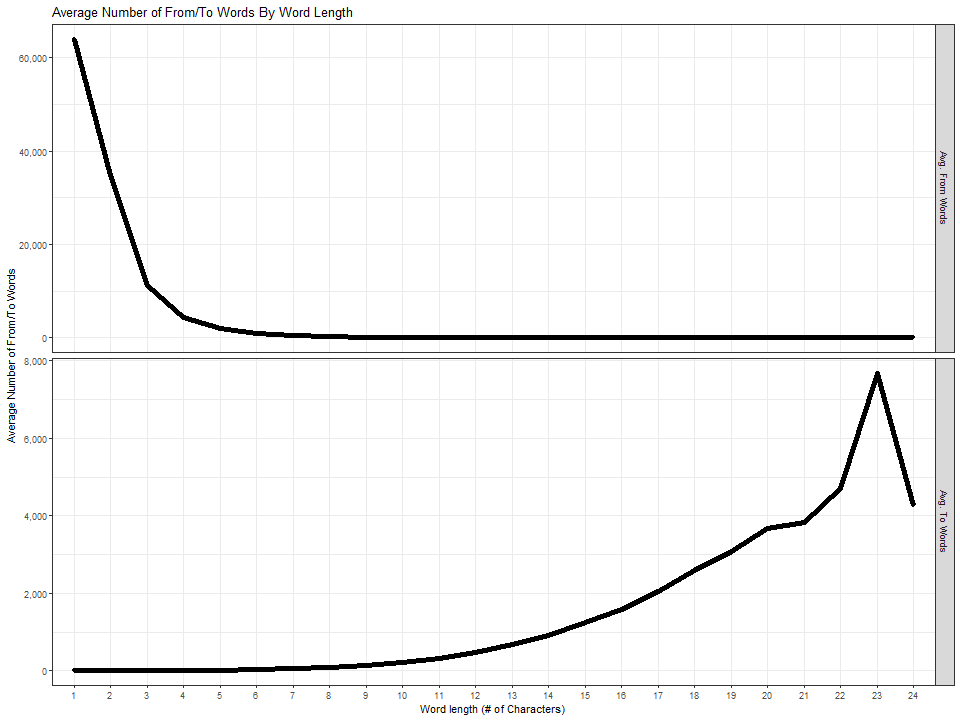
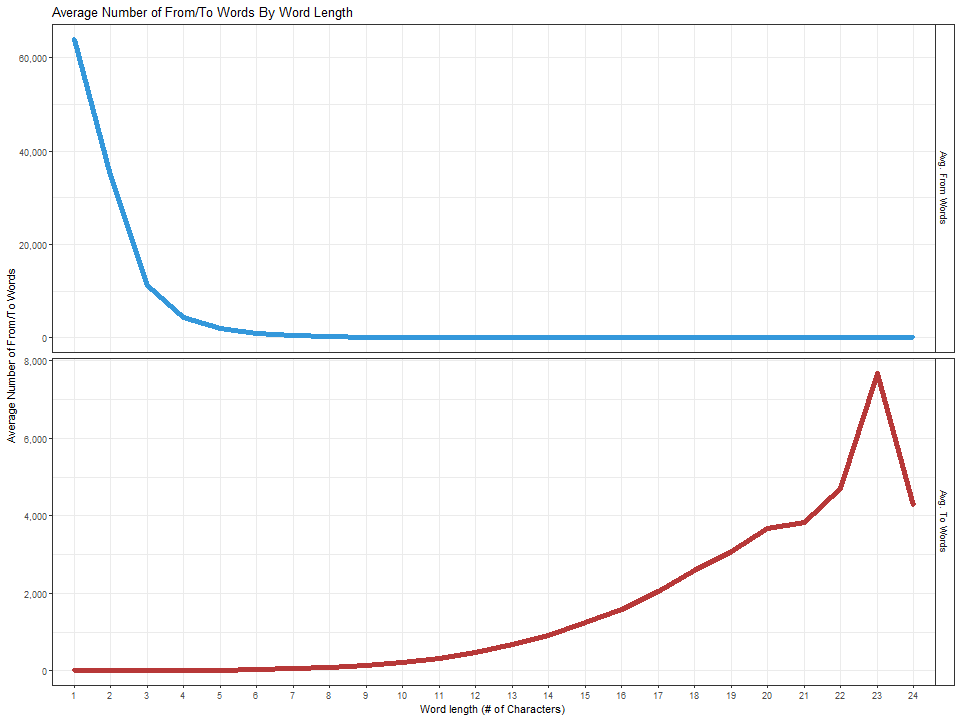
interim checkin 2025_03_27_13_41_51

diff --git a/media/finding_anagrams/wordlist.html b/media/finding_anagrams/wordlist.html
@@ -37,7 +37,7 @@
             display: none;
             padding: 10px;
             background-color: #f4f4f4;
-            border-left: 4px solid #3498db;
+            border-left: 4px solid Grey;
             margin-top: 5px;
             border-radius: 5px;
         }
@@ -107,8 +107,7 @@
                             const wordCount = groupedWords[length].length;
                             // let formattedCount = group.count.toLocaleString(); // Format number with commas
                             let formattedCount = wordCount.toLocaleString();
-                            let barColor = direction === "from" ? "blue" : "red"; // Set color based on direction
-
+                            
                             let headerColor = direction === "from" ? "#3498db" : "#b73838"; // Blue for "from", Red for "to"
 
                             content += `

diff --git a/README.md b/README.md
@@ -1,5 +1,5 @@
 # Finding Anagrams: v2.0
-# March 26, 2025
+## March 27, 2025
 Find and store parent/child word relationships using Python, NumPy, Pandas, and SQLite
 
 # Introduction
@@ -47,7 +47,6 @@ Each matrix extraction option is described in greater detail below. Where applic
 
 These colors were created by [Professor Cynthia Brewer](https://www.geog.psu.edu/directory/cynthia-brewer) and originate from the [Dark2 color theme](https://colorbrewer2.org/#type=qualitative&scheme=Dark2&n=3).  
 
-
 ## Matrix Extraction Option 1 - No subdivision
 By subtracting each row (a focal word) of the `char_matrix` from every other row of the `char_matrix` and finding non-negative values for each operation, the parent words for a focal word are identified. This is the simplest option to implement and the slowest because each word is compared against $215,842$ other words. This is effectively performing $~216K * ~216K$ comparisons. Accordingly, this option takes approximately $90$ minutes to complete. While the `char_matrix` creates a standard format for each word, there are latent structures in our list of words that we can leverage. To that end, [part_01_structure_data.ipynb](/code/part_01_structure_data.ipynb) uncovers these latent structures: the number of characters in each word and the frequency of each character in our list of words. Matrix extraction options `2` through `6` leverage these latent structures by splitting the `char_matrix` into smaller $[M, 26]$ matrices. 
 
@@ -88,7 +87,7 @@ Repeating this process of selecting the three least common letters for each of t
 
 The letter selector groups range in size from a single word to over $145K$ words. We can get a better sense of the distribution of the sizes of the letter selector groups by examining the plot comparing the number of letter selector groups by the size of the letter selector group:  
 ![Letter selector difference](/graphics/meo_5_letter_selector_group_size.png)
-For ease of interpretation, the x-axis is log-transformed. Most letter groups are small: $25$ -percent of the $2,387$ distinct letter groups feature $340$ words or fewer and $50$ -percent of the $2,387$ letter groups feature $1,665$ words or fewer. The average group size is a little over $7.4K$ words. Grouping by least common letters is an efficient way to sub-divide the initial `char_matrix`. In fact, it is so efficient that matrix extraction option `5` executes in under four minutes. This is over $10$ times faster when compared to Option `3` ($31$ minutes) and over $5$ times faster than option `4` ($15$ minutes). And this is because of the reduction in the search spaces of candidate words. When comparing option `5` with option `3`, there is a [$92$ -percent](/graphics/meo_5_letter_selector_lookup_diff.png) reduction in the size of the search spaces.
+For ease of interpretation, the x-axis is log-transformed. Most letter groups are small: $25$ -percent of the $2,387$ distinct letter groups feature $340$ words or fewer and $50$ -percent of the $2,387$ letter groups feature $1,665$ words or fewer. The average group size is a little over $7.4K$ words. Grouping by least common letters is an efficient way to sub-divide the initial `char_matrix`. In fact, it is so efficient that matrix extraction option `5` executes in under four minutes. This is over $10$ times faster when compared to Option `3` ($31$ minutes) and over $5$ times faster than option `4` ($15$ minutes). And this is because of the reduction in the search spaces of candidate words: when comparing option `5` with option `3`, there is a [92-percent](/graphics/meo_5_letter_selector_lookup_diff.png) reduction in the size of the search spaces.
   
 ## Matrix Extraction Option 6: Matrices are sub-divided by groups of least common letters and number of characters
 Of the five previous matrix extraction options, option `5` is currently in first place. Can we improve on option `5`? The answer is a resounding *"yes, but..."* More on that in a bit, but first the method behind option `6`: a combination of word length and groups of least common letters. Option `6` performs additional subdivision by finding the set of words common between words that are at least $N$ characters in length *and* the groups of least common letters. This generates $16,101$ sub-matrices. Again, focusing on the word `achiever`, we can intersect the set of $489$ words that feature the three least common letters of `['v', 'h', 'c']` with the set of candidate words that are at least $8$ characters in length - $170,056$ words - to produce a list of $449$ candidate words. This process is repeated for all words. Just like for option `5`, we can get a sense of the distribution of the search space by examining the sizes of the letter-selector-number-of-characters groups.   
@@ -133,46 +132,44 @@ As the sizes of sub-matrices decrease, the number of sub-matrices increase. This
 
 As a final comment, up until this point, I have not have mentioned any timing related to generating the sub-matrices. For options `2` through `4`, it takes about $2$ seconds to generate the sub-matrices. Generating the sub-matrices for option `5` takes about $10$ seconds and it takes about a minute to generate the sub-matrices for option `6`. In other words, for option `5`, an extra $8$ seconds of pre-processing results in a time savings of $90$ minutes when compared with matrix extraction option `1`.
 
-# AN ETL PIPELINE
+# An ETL Pipeline
 This section describes each script in the ETL pipeline and the various scripts used to analyze different processing times. Parts 01, 02, and 03 form the ETL pipeline while other parts feature various components for code reuse and analyses.
 
-## SETUP
+## Setup
 The scripts in this portion define constants and functions used throughout subsequent processes.
 * [`_run_constants.py`](/code/_run_constants.py) - Input and output file names and paths. All subsequent scripts reference the paths defined in this file. Paths and names only need to be set once, in this file. 
 
-## UTILITIES
+## Utilities
 * [`part_00_file_db_utils.py`](/code/part_00_file_db_utils.py) - Code reuse for parts 01 through 07. These are mostly I/O and utility functions.
 * [`part_00_process_functions.py`](/code/part_00_process_functions.py) - Code reuse for parts 01 through 07. These functions perform the data processing and are called in subsequent parts. The reason for this structure is for code reuse, efficient optimization and debugging, and generally writing less code. Effectively, we can define the function once and import it.
 
-## EXTRACT
+## Extract
 * [`part_01_structure_data.ipynb`](/code/part_01_structure_data.ipynb) and [`part_01_structure_data.py`](/code/part_01_structure_data.py) - 
 Load a list of words, perform several calculations and data creation steps, and store the results. This step creates the objects that facilitate the different extraction techniques. In these notebooks, the word groups are determined. The input list of [words](/data/words.txt) features approximately $234K$ unique words. Of these $234K$ words, approximately $201K$ do not belong to a word group while approximately $14K$ words do belong a word group. Most words in the word groups belong to groups of size $2$. The words `abactor` and `acrobat` are anagrams of each other. There are two words groups of size 10: 
 
-## TRANSFORM
+## Transform
 * `part_02_demonstrate_extraction_timing_techniques.ipynb` and `part_02_demonstrate_extraction_timing_techniques.py` - The scripts in this section demonstrate the techniques - and crucial differences - in the different matrix extraction techniques in subsequent scripts.
 
-## LOAD
+## Load
 * `part_03_generate_and_store_anagrams.ipynb` and 
 `part_03_generate_and_store_anagrams.py*` - This script and notebook find the parent words for all words in the list of focal words using one of the user specified extraction options. The data can optionally be written to a SQLite DB.
 
 Each of the six techniques in part_03 will produce the same data - the discover of $\approx73M$ parent-child word pairs using different data structuring and access techniques. 
 
-## ETL
+## Complete ETL
 * `part_04_run_parts_01_02_and_03.ipynb` and `part_04_run_parts_01_02_and_03.py` can be used to run parts 01, 02, and 03 from one notebook / script. This is helpful in showcasing the overall time it takes to run one matrix extraction technique.
 
-## QUERY
-
+## Query
 * `part_05_query_anagram_database.ipynb` - query the anagram database. Show how to crosswalk from `word_group_id` to `word`.
 * `part_06_add_database_indices.ipynb` - adds indices to tables in the anagram database. This showcases how database indices can dramatically speed up data retrieval times: from minutes to query for a single word to sub-second access. This notebook only needs to be run after the `anagram_groups` table is (re)created. 
 
-## ANALYSIS
+## Analysis
 * `part_07_build_a_graph.ipynb` - build a graph of the parent/child word relationships after for the word `terminator`. 
 
-# VISUALIZATION
+# Visualization
 Both python (part 08) and R (part 09) are used to plot aspects of the search space and process times by matrix extraction technique. Parts 10 and 11 prepare data for use in a webpage. 
 
-## search spaces and processing times
-
+## Search Spaces and Processing Times
 * `part_08_plot_counts_of_search_spaces.ipynb` - use [`matplotlib`](https://matplotlib.org/) and [`seaborn`](https://seaborn.pydata.org/) to plot counts of search spaces and processing times. This file generates the `meo_*_.png` images, referenced and shown in the sections above
 
 * `part_09_visualize_processing_time.R` - Make graphics using the [`R programming language`](https://www.r-project.org/)! Because the data generated in parts 01, 02, and 03 are stored in a SQLiteDB, we can connect to the database using the [RSQLite](https://rsqlite.r-dbi.org) library and in turn load the data as a [data.table](https://rdatatable.gitlab.io/data.table/) object. From there, we can then use the [ggplot2](https://ggplot2.tidyverse.org/) library to produce several plots showcasing different aspects of the processing times and search space. In this case, all plots feature statistics by word length. As an example, the graphic below showcases the total time it takes to find all parent words by word length:
@@ -187,17 +184,16 @@ These two plots show how as the number of letters in a word increases, the numbe
 This last plot is similar to the graphic showing [sub-matrix size](/graphics/meo_all_box_plot_distribution.png) the search spaces by technique.
 * [wl_time_avg_proc_time.png](/graphics/wl_time_avg_proc_time.png) - the average processing time by word length and matrix extraction technique. 
 
-## word relationships
-
+## Word Relationships
 * [part_10_create_word_counts.ipynb](/code/part_10_create_word_counts.ipynb) - generate the data for a web page showing a grid of words with the greatest number of parent/child words by word length. Up until this point, I have only mentioned the words as a corpus but I have not really focused on any specific word. We have graphed search spaces and the number of parent/child words but we haven't looked any specific words. To that end, I have ranked each word based on the number of parent words and the number of child words by word length. I then selected the five words with the greatest number of parent words and the greatest number of child words by word length. As the words range in length of $1$ through $24$ letters, there are $120$ words showing the count of parent words and $120$ words showing the count of child words. There are $240$ words in total. This script generates one part of the data for the word group grid.  
 
 * [part_11_export_data_for_grids.ipynb](/code/part_11_export_data_for_grids.ipynb) - This notebook generates the parent and child words for the 240 words on the word grid. Clicking on each grid cell takes a user to the formatted list of parent or child words. This script generates that list. And here is the word group grid:
 * [word group grid](/webpage/word_group_grid.html) - Top 5 word groups by parent/child word count by word length. The counts of `from` words are on the left in shades of blue and the counts of `to` words are on the right in shades red. In general, as the word length increases, more child words can be created and a focal word can be found in fewer parent words. For example, the letter `e` can be found in over $157K$ words: over $67$ -percent of the words in the word list. In total, there are approximately $233K$ unique words identified in the list of $120$ child words, over $99$ -percent of all words. There are $101K$ parent words identified in the parent words section, about $43$ -percent of all words. Across the $120$ parent words, all but the letters `k` and `w` are present. Across the $120$ child words, all but the letters `q` and `w` are present. The word with the greatest number of child words is [pseudolamellibranchia](https://www.merriam-webster.com/dictionary/Pseudolamellibranchia). The letters in this $23$ -character word describing a group of bivalve mollusks can be rearranged to spell a whopping $32,456$ words. 
 
-# INTROSPECTION
+# Introspection
 This section focuses on tools to understand how the functions are referenced from one another and the time it takes to execute various functions. How do the functions in parts 00, 01, 02, and 03 come together? How long do the various components of each function take to execute? We can answer each question, respectively, by creating static call graphs and profiling.
 
-## CALL GRAPHS
+## Call Graphs
 According to [wikipedia](https://en.wikipedia.org/wiki/Call_graph), a call graph "is a control-flow graph which represents calling relationships between subroutines in a computer program." A static call graph represents the idealized flow of the program while a dynamic call graph represents what is *actually* called during a program's execution.
 
 * [part_12_generate_call_graphs.bat](/code/part_12_generate_call_graphs.bat) generates static call graphs. One in the *.svg format:
@@ -215,7 +211,7 @@ pip install pyan3==1.1.1
 ```
 After this environment has been created, activate the `py38` environment and run the batch file listed above. 
 
-## PROFILING
+## Profiling
 [Profiling](https://en.wikipedia.org/wiki/Profiling_(computer_programming)) measures execution time and complexity. This is exceptionally useful when looking at which parts of a program are taking longer than expected or just understanding how long things take. The three batch files below can be executud from the Anaconda Powershell prompt with the same activated environment as the environment used to run parts 01, 02, and 03.
 
 * [profile_part_01_structure_data.bat](/code/profile_part_01_structure_data.bat)
@@ -237,7 +233,6 @@ I have already done a fair amount of optimizing on each part so most of the easy
 ![part 02 profile](/graphics/part_02_profile_example.png)  
 This image shows the time taken to perform [set intersections](https://docs.python.org/3/library/stdtypes.html#frozenset.intersection) in the split_matrix() function. This corresponds to matrix extraction option `6`: sub-matrices are split by word-length and three least common letters. Finding the word ids of words that at least $N$ letters in length and feature a specific set of three least common letters is accomplished through the `set().intersection` method. This method is very fast: it's just being called thousands of times.
 
-# VERSION 3.0
-
+# Version 3.0
 If you've made it this far, first, thank you. Second, if you see some room for improvement, please do let me know. I would love to hear from you if you have any thoughts on an additional matrix extraction technique or suggestions on how to improve the existing matrix extraction techniques. I do wonder if it would be possible to get the parent-child word determination down to under a minute. That might be a wholly different technique or a different hardware implementation such as using a [GPU-accelerated version of NumPY](https://cupy.dev/).
 
